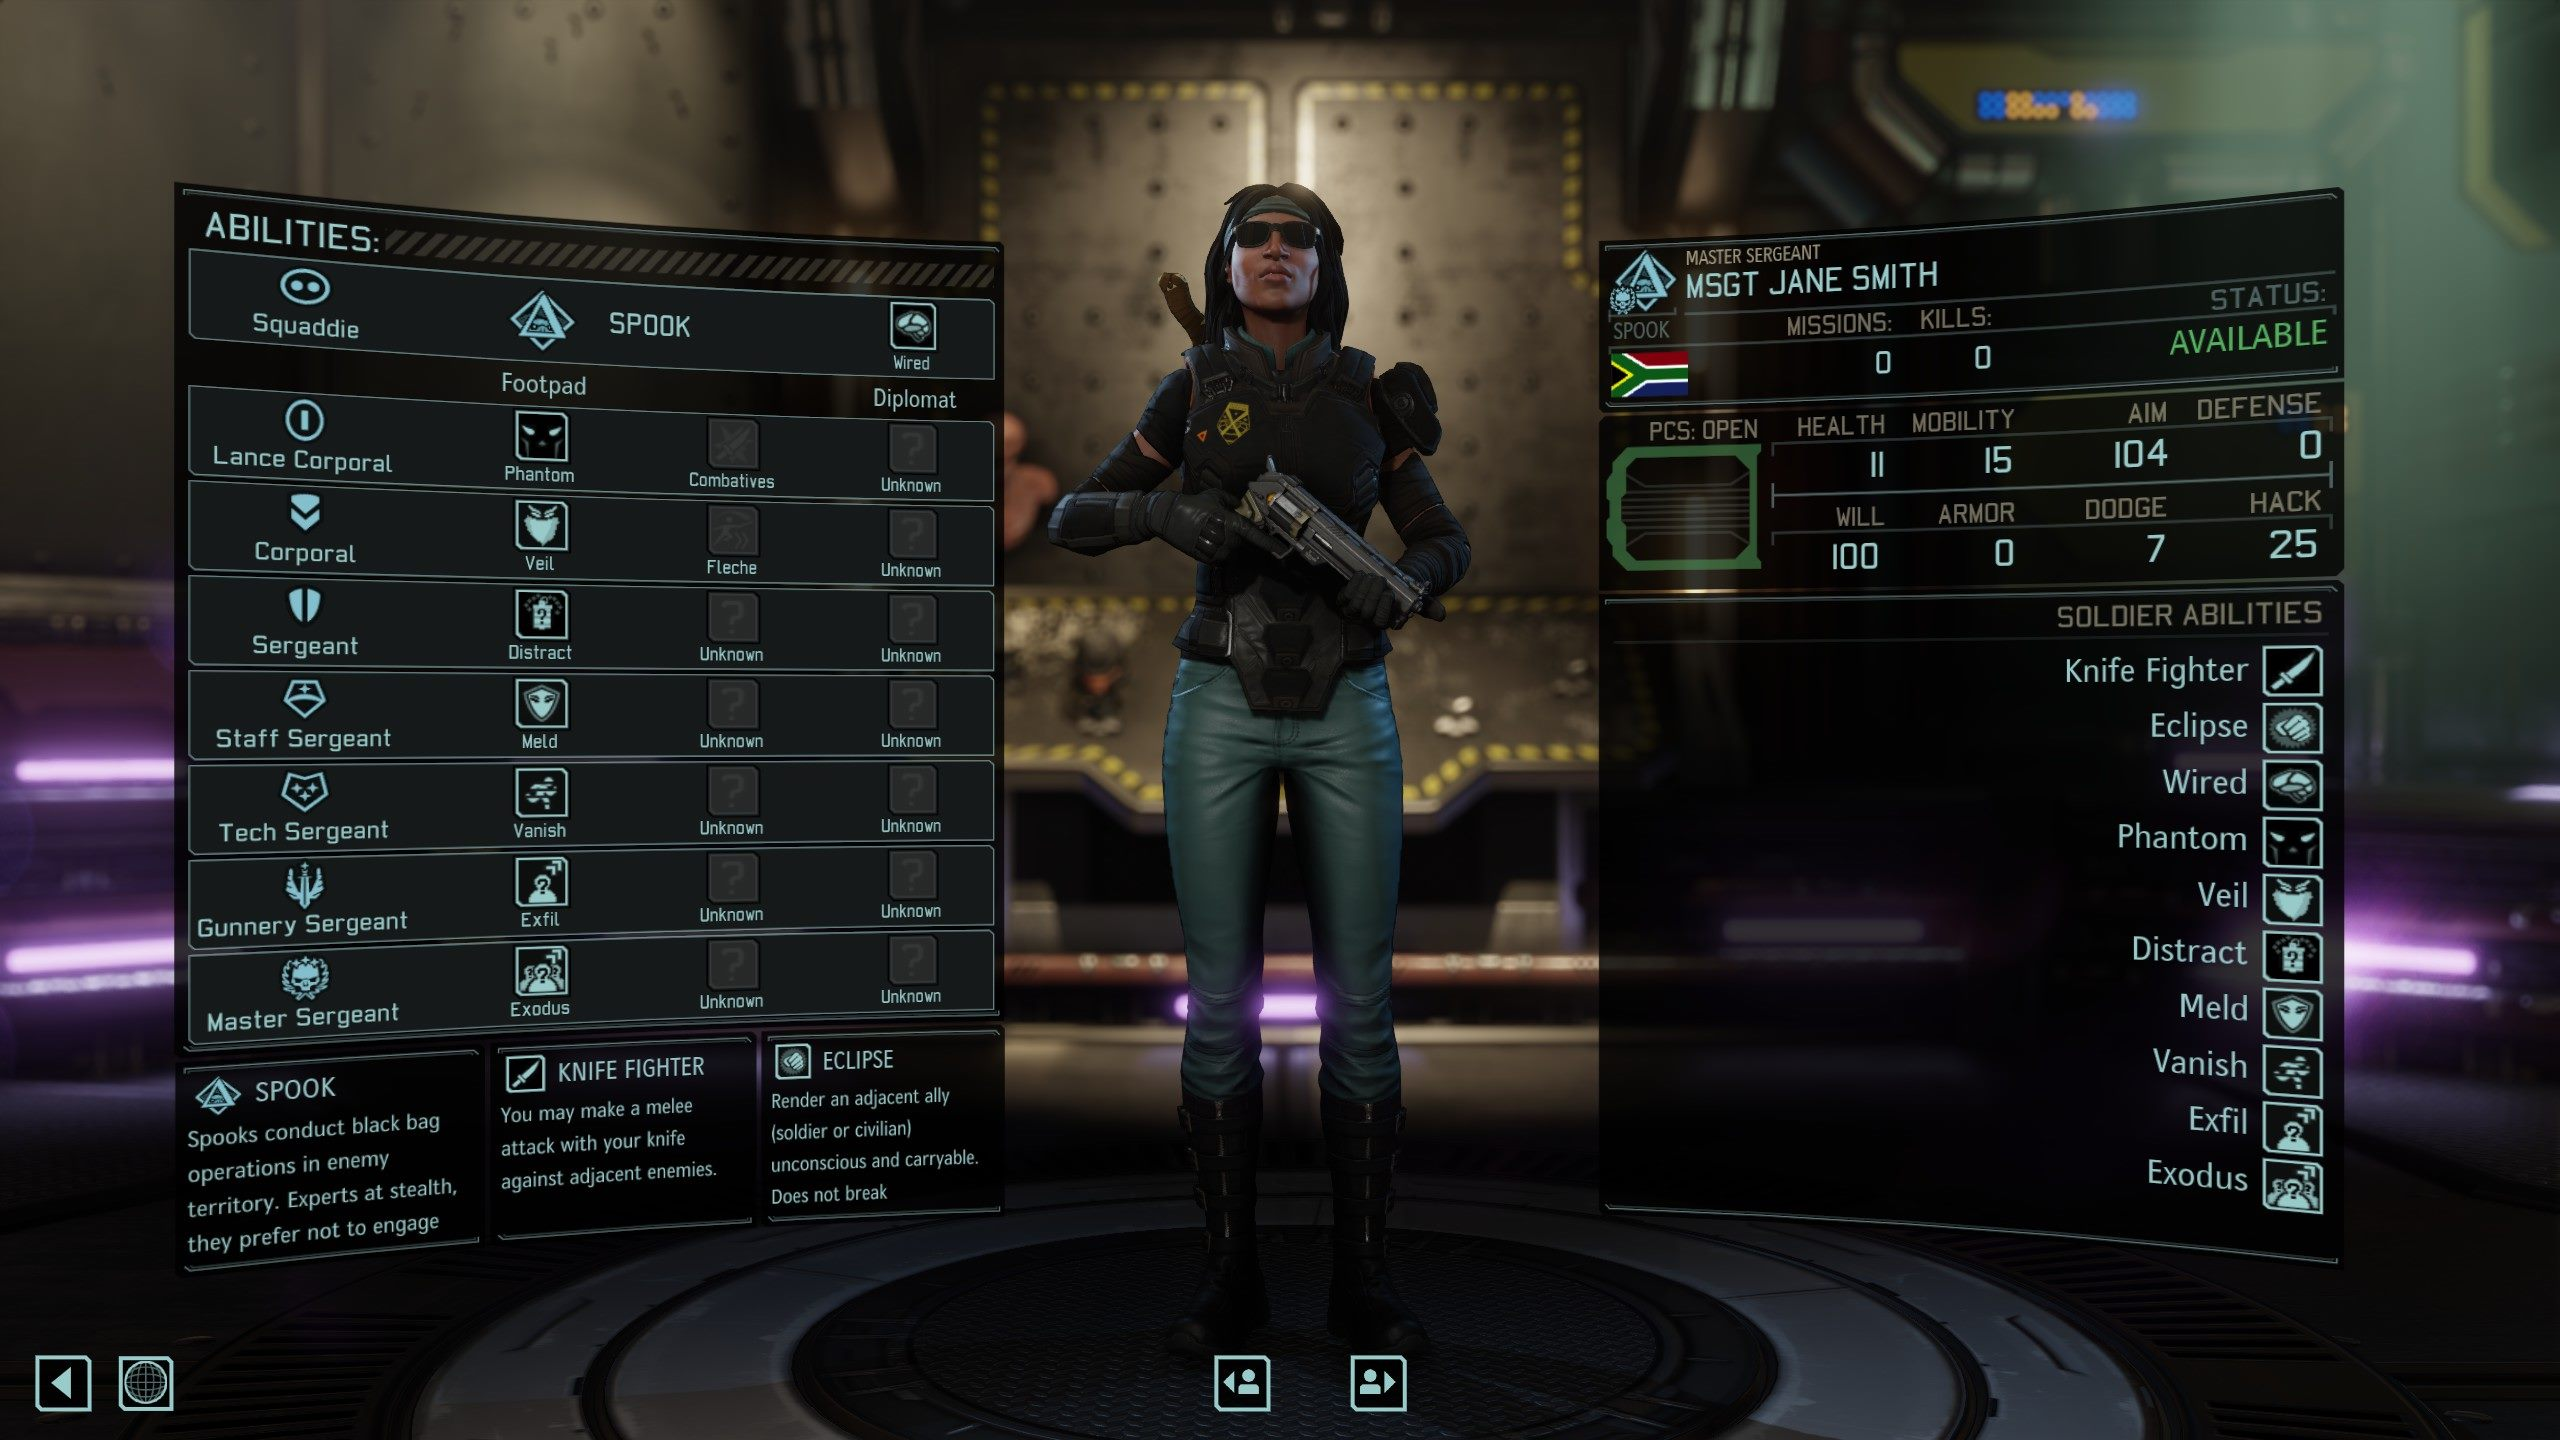
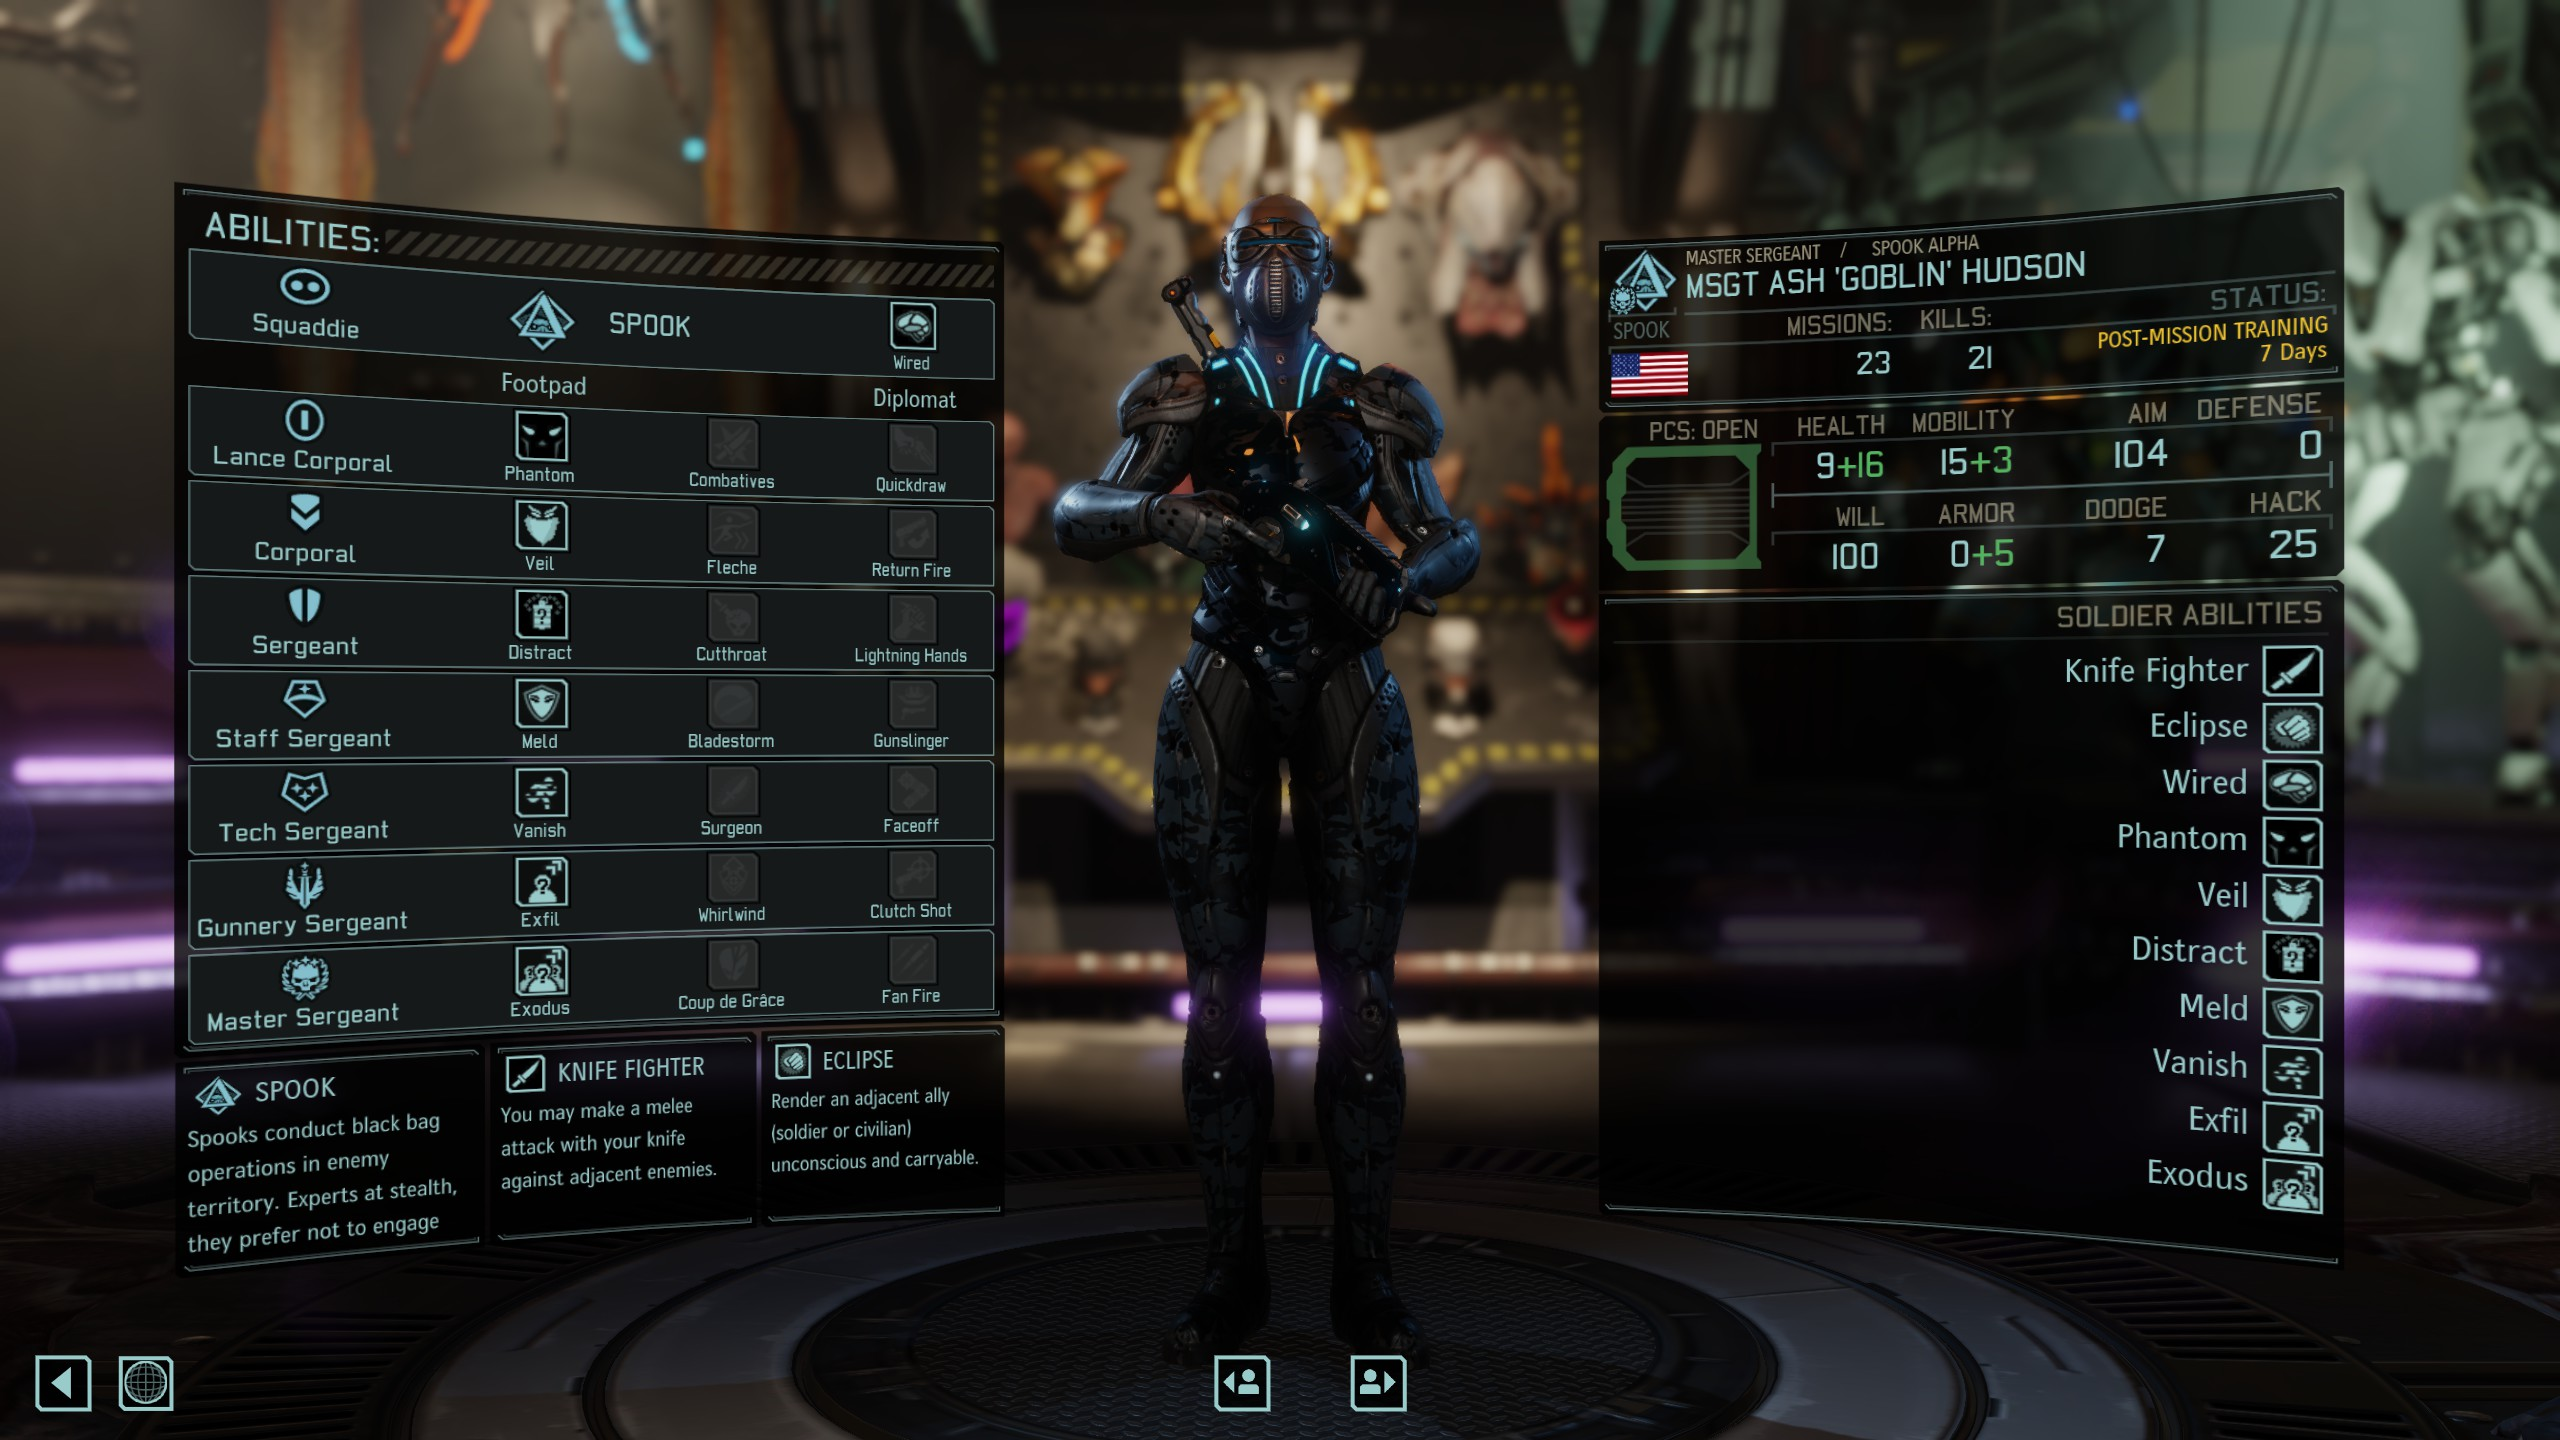
Update documentation

diff --git a/README.md b/README.md
@@ -26,12 +26,13 @@ Spooks are lightly armed, since they rely on stealth rather than martial force t
 
 *"A sidearm carried exclusively by Spooks, they favour this pistol over larger, more powerful but cumbersome weapons."*
 
-The Spook Pistol is extremely accurate at close range. It is deeply inaccurate at longer ranges, and lacks significant upgrades at higher weapon tiers.
+The Spook Pistol is extremely accurate at close range. It is deeply inaccurate at longer ranges.
 
-**Conventional** 3-4 damage, +2 on a crit, short sound range, unlimited ammo. 1 action to fire.
+**Conventional** 3-4 damage, +2 on a crit, short sound range, unlimited ammo.
 
-**Magnetic** 5-6 damage, +3 on a crit, short sound range, unlimited ammo. 1 action to fire.
+**Magnetic** 5-6 damage, +3 on a crit, short sound range, unlimited ammo.
 
+**Plasma** 7-8 damage, +4 on a crit, short sound range, unlimited ammo. Plasma weapons also cause targets to take 1 additional damage on future hits. 
 
 ### Combat Knife
 
@@ -162,6 +163,48 @@ The targets return to the Avenger without requiring an Evac.
 
 Civilian allies affected by Eclipse include scientists and engineers, as well as potential and former soldiers.
 
+**Quickdraw** (LCPL) (Per Long War 2)
+
+![Icon](XCom2SpookClass/Media/Docs/UIPerk_unknown.png)
+
+*"Firing your pistol with your first action no longer ends your turn."*
+
+**Return Fire** (CPL) (Per Long War 2)
+
+![Icon](XCom2SpookClass/Media/Docs/UIPerk_unknown.png)
+
+*"When targeted by enemy fire, automatically fire back with your pistol once per turn."*
+
+**Lightning Hands** (SGT) (Per Long War 2)
+
+![Icon](XCom2SpookClass/Media/Docs/UIPerk_unknown.png)
+
+*"Fire your pistol at a target. This attack does not cost an action."* 3 turn cooldown.
+
+**Gunslinger** (SSGT) (Per Long War 2)
+
+![Icon](XCom2SpookClass/Media/Docs/UIPerk_unknown.png)
+
+*"Take a reaction shot with your pistol against any enemy that moves or attacks within 12 tiles and a wide cone of fire."*
+
+**Faceoff** (TSGT) (Per Long War 2)
+
+![Icon](XCom2SpookClass/Media/Docs/UIPerk_unknown.png)
+
+*"Fire once at every visible enemy with your pistol."*
+
+**Clutch Shot** (GSGT) (Per Long War 2)
+
+![Icon](XCom2SpookClass/Media/Docs/UIPerk_unknown.png)
+
+*"Once per mission, fire a pistol shot that cannot miss."*
+
+**Fan Fire** (MSGT) (Per Long War 2)
+
+![Icon](XCom2SpookClass/Media/Docs/UIPerk_unknown.png)
+
+*"Fire the pistol three times at the same target."*
+
 ## Perks: Spook Pistol
 
 **Dart**
@@ -194,7 +237,7 @@ Rookies do not automatically become Spooks after ranking up.
 
 One Spook can be obtained from a new Point of Interest on the Geoscape, immediately upon starting  a new game.
 
-Further Spooks can be trained in the GTS.
+Further Spooks can be trained in the GTS. It is recommended not to have more than three Spooks on your roster in a Long War 2 campaign; though this is not currently enforced as a mechanic, this retains some balance between stealth and combat missions, and ensures your A team will have gained sufficient experience for the endgame.
 
 ## Post-Mission Training
 
